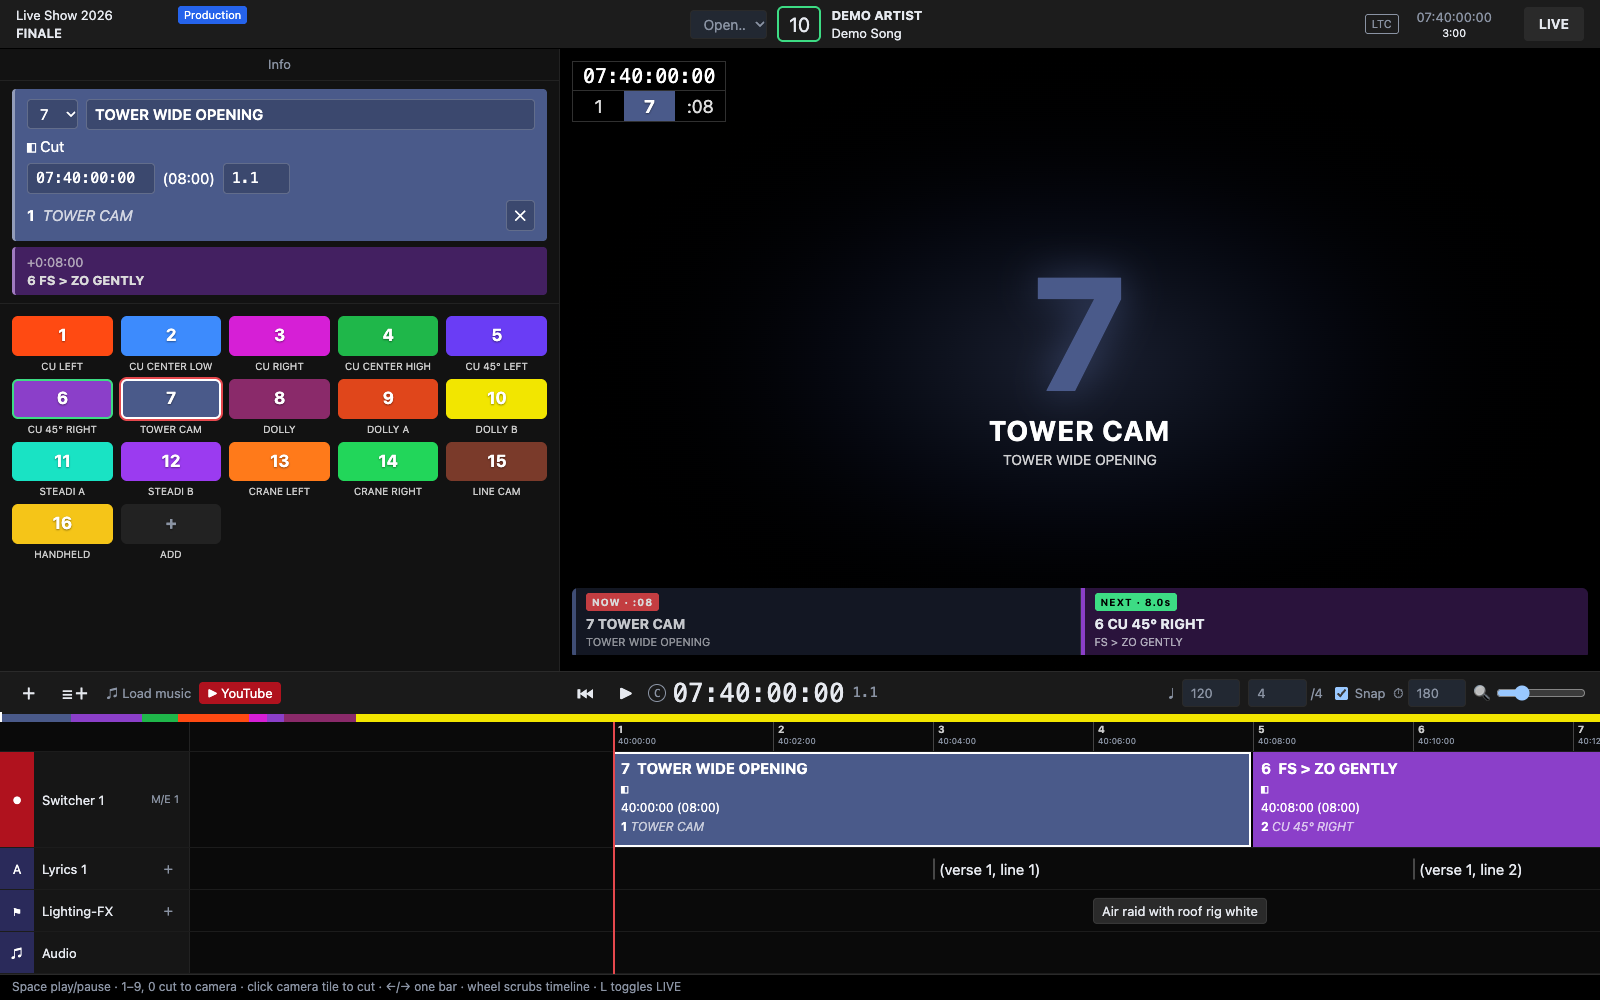
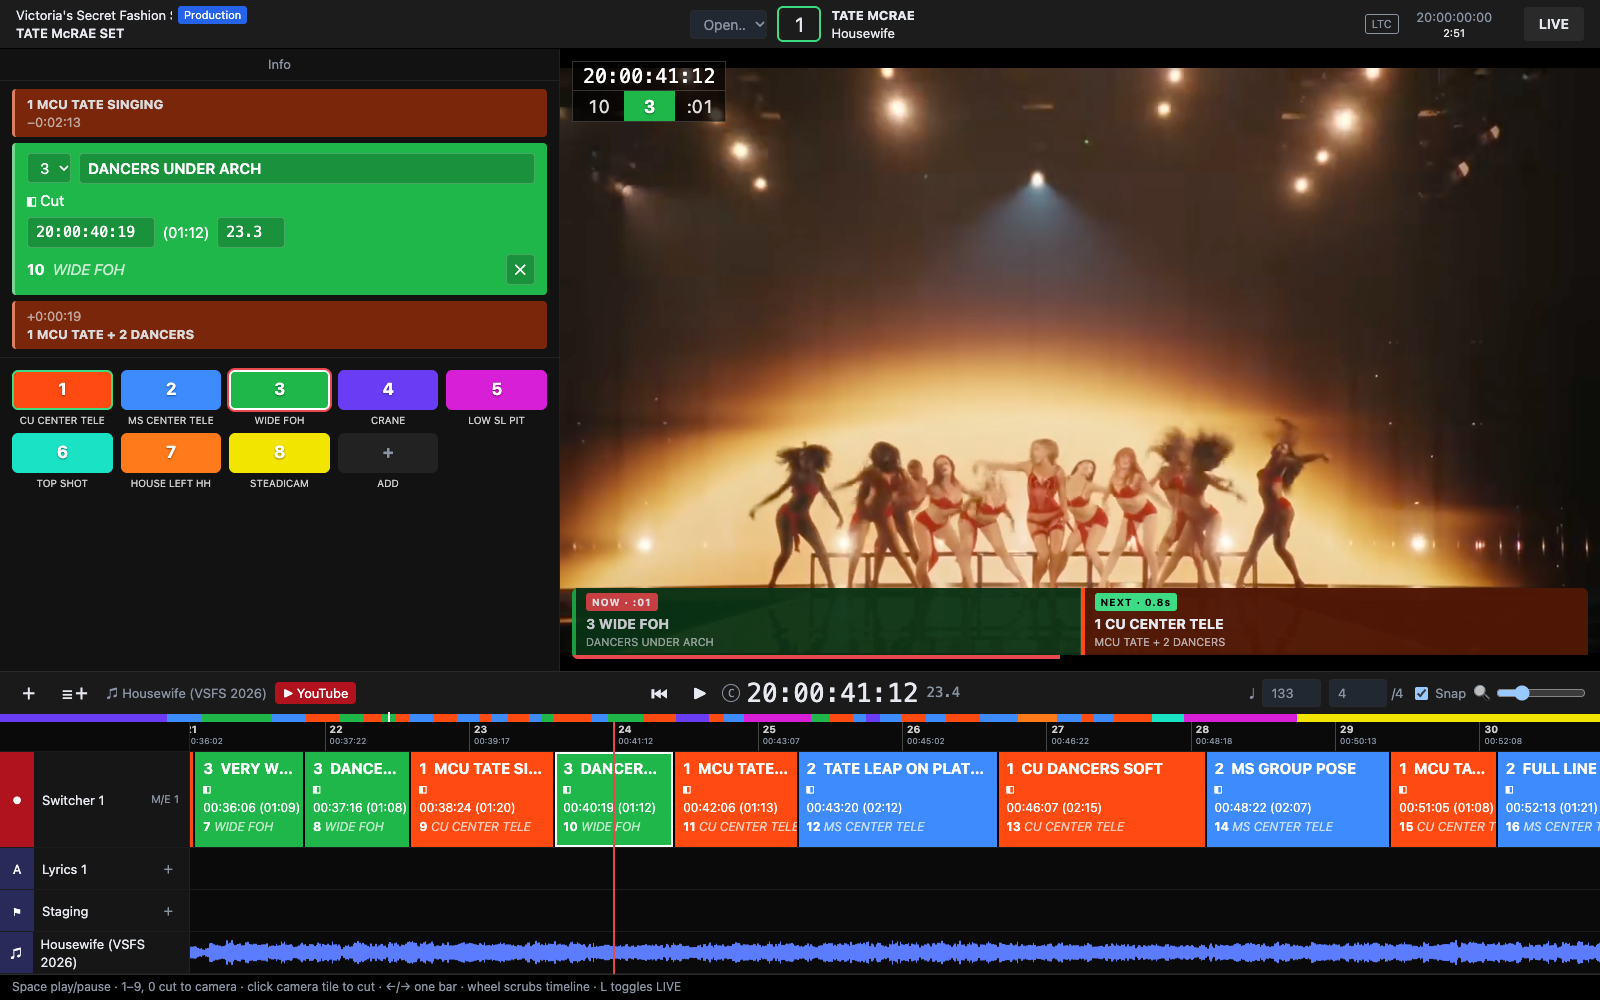
Use Housewife performance screenshots, add show/time deep links
Screenshots now show the example rundown with the program video.
#live&show=<name>&t=<seconds> opens a rundown at a given moment.

diff --git a/src/App.vue b/src/App.vue
@@ -3,7 +3,11 @@ import { ref, onMounted, onUnmounted } from 'vue'
 import { show, clock, toggle, seek, tc, parseTc, addCue, snapBeat, spb, rundowns, loadShow } from './store'
 import Rundown from './Rundown.vue'
 
-const view = ref(location.hash === '#live' ? 'live' : 'rundown') // #live deep-links to LIVE mode
+// deep link: #live&show=<rundown name>&t=<seconds>
+const link = new URLSearchParams(location.hash.slice(1))
+const view = ref(link.has('live') ? 'live' : 'rundown')
+if (rundowns[link.get('show')]) loadShow(link.get('show')).then(() => link.has('t') && seek(+link.get('t')))
+else if (link.has('t')) seek(+link.get('t'))
 
 // keys: space = play/pause, 1-9/0 = record a cut to that camera at the playhead, arrows = nudge one bar
 function onKey(e) {

diff --git a/src/store.js b/src/store.js
@@ -136,7 +136,7 @@ export function loadShow(name) {
   audio.removeAttribute('src'); audio.load()
   Object.assign(clock, { now: 0, audioName: '', peaks: null, hasVideo: false })
   Object.assign(show, structuredClone(rundowns[name]))
-  loadMedia()
+  return loadMedia()
 }
 
 // self-check

diff --git a/README.md b/README.md
@@ -8,6 +8,8 @@ Built with Vue 3 and Vite. No backend except a small dev-server endpoint for dow
 
 ## Screenshots
 
+Both screenshots show the example rundown for Tate McRae's "Housewife" ([see below](#example-reverse-engineered-shot-list)).
+
 **Editor**: shot info, camera buttons, program monitor and the track timeline.
 
 ![Editor](docs/editor.png)
@@ -15,6 +17,8 @@ Built with Vue 3 and Vite. No backend except a small dev-server endpoint for dow
 **LIVE**: the shot waterfall with sliding duration bars, per-camera countdowns, and the program monitor with a NOW/NEXT bar.
 
 ![LIVE view](docs/live.png)
+
+<sub>Video frames: Tate McRae – 2026 Victoria's Secret Fashion Show Performance, © 2026 RCA Records / Sony Music Entertainment. Shown as reduced UI screenshots for illustration only.</sub>
 
 ## Features
 
@@ -53,8 +57,18 @@ brew install yt-dlp ffmpeg
 | `1`–`9`, `0` | Cut to camera 1–10 at the playhead |
 | `←` / `→` | Jump one bar |
 | `Home` | Back to start |
-| `L` | Toggle LIVE mode (or open `/#live`) |
+| `L` | Toggle LIVE mode |
 | Mouse wheel on timeline | Scrub |
+
+## Deep links
+
+Open a rundown at a moment, optionally in LIVE mode:
+
+```
+http://localhost:5173/#live&show=Tate%20McRae%20%E2%80%93%20Housewife&t=86.2
+```
+
+`show` is the name shown in the **Open…** menu, and `t` is the time in seconds.
 
 ## Rundown format
 
